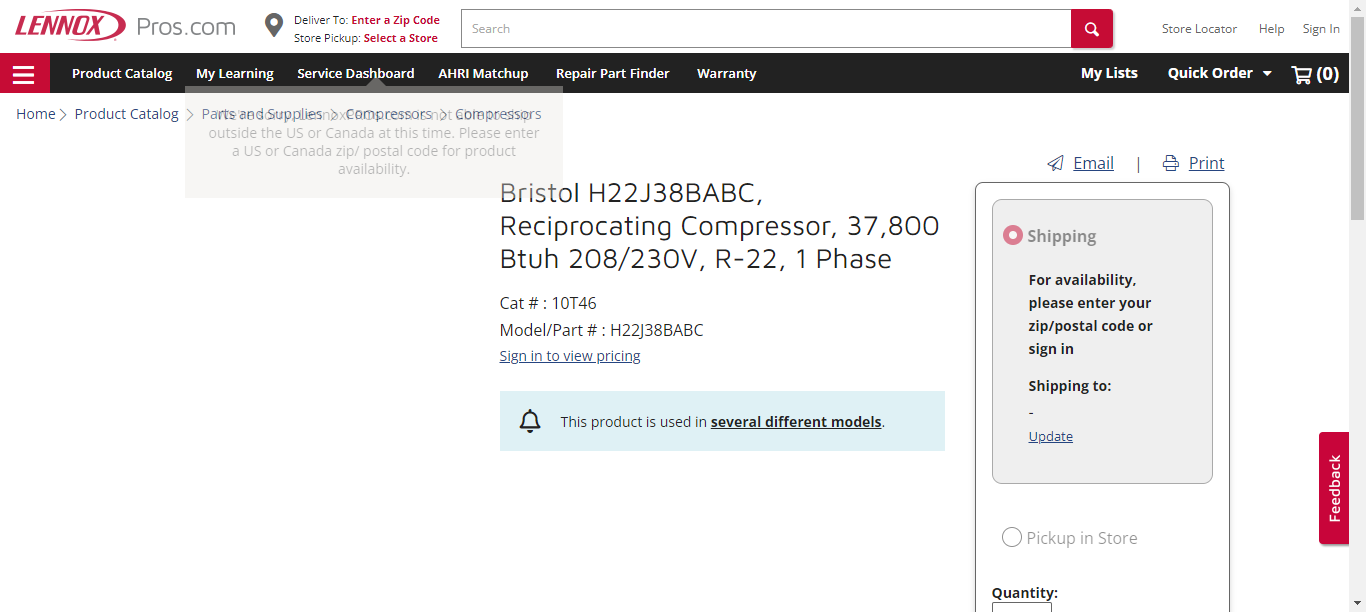
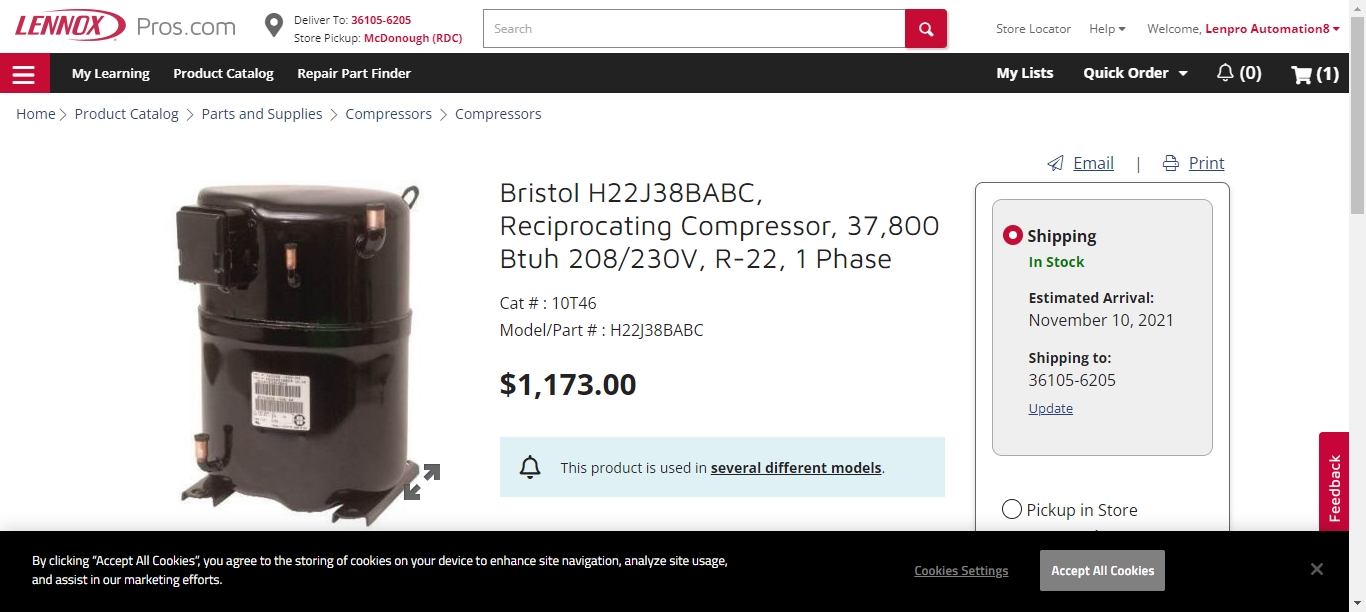
Assessment

diff --git a/test-output/index.html b/test-output/index.html
@@ -51,7 +51,7 @@
               <ul>
                 <li>
                   <a href="#" class="navigator-link " panel-name="test-xml-Default_suite">
-                    <span>C:\Users\ramya\AppData\Local\Temp\testng-eclipse-434856898\testng-customsuite.xml</span>
+                    <span>C:\Users\ramya\AppData\Local\Temp\testng-eclipse--2074361957\testng-customsuite.xml</span>
                   </a> <!-- navigator-link  -->
                 </li>
                 <li>
@@ -137,7 +137,7 @@
         </div> <!-- panel Default_suite -->
         <div panel-name="test-xml-Default_suite" class="panel">
           <div class="main-panel-header rounded-window-top">
-            <span class="header-content">C:\Users\ramya\AppData\Local\Temp\testng-eclipse-434856898\testng-customsuite.xml</span>
+            <span class="header-content">C:\Users\ramya\AppData\Local\Temp\testng-eclipse--2074361957\testng-customsuite.xml</span>
           </div> <!-- main-panel-header rounded-window-top -->
           <div class="main-panel-content rounded-window-bottom">
             <pre>
@@ -190,12 +190,12 @@ data.addRows(1);
 data.setCell(0, 0, 0)
 data.setCell(0, 1, 'tc1')
 data.setCell(0, 2, 'lennoxProject.lennox')
-data.setCell(0, 3, 18343);
+data.setCell(0, 3, 72235);
 window.suiteTableData['Default_suite']= { tableData: data, tableDiv: 'times-div-Default_suite'}
 return data;
 }
               </script>
-              <span class="suite-total-time">Total running time: 18 seconds</span>
+              <span class="suite-total-time">Total running time: 1 minutes</span>
               <div id="times-div-Default_suite">
               </div> <!-- times-div-Default_suite -->
             </div> <!-- times-div -->
@@ -228,11 +228,11 @@ return data;
               </div> <!-- configuration-class before -->
               <div class="test-method">
                 <span class="method-name">tc1</span>
-                <span class="method-start">14206 ms</span>
+                <span class="method-start">24466 ms</span>
               </div> <!-- test-method -->
               <div class="configuration-class after">
                 <span class="method-name">closeBrowser</span>
-                <span class="method-start">32556 ms</span>
+                <span class="method-start">96731 ms</span>
               </div> <!-- configuration-class after -->
           </div> <!-- main-panel-content rounded-window-bottom -->
         </div> <!-- panel -->

diff --git a/test-output/old/Default suite/methods.html b/test-output/old/Default suite/methods.html
@@ -1,10 +1,10 @@
 <h2>Methods run, sorted chronologically</h2><h3>&gt;&gt; means before, &lt;&lt; means after</h3><p/><br/><em>Default suite</em><p/><small><i>(Hover the method name to see the test class name)</i></small><p/>
 <table border="1">
 <tr><th>Time</th><th>Delta (ms)</th><th>Suite<br>configuration</th><th>Test<br>configuration</th><th>Class<br>configuration</th><th>Groups<br>configuration</th><th>Method<br>configuration</th><th>Test<br>method</th><th>Thread</th><th>Instances</th></tr>
-<tr bgcolor="ba7b69">  <td>21/11/09 10:02:27</td>   <td>0</td> <td>&nbsp;</td><td>&nbsp;</td><td title="&lt;&lt;lennox.closeBrowser()[pri:0, instance:lennoxProject.lennox@7e0e6aa2]">&lt;&lt;closeBrowser</td> 
+<tr bgcolor="ba7b69">  <td>21/11/09 13:22:41</td>   <td>0</td> <td>&nbsp;</td><td>&nbsp;</td><td title="&lt;&lt;lennox.closeBrowser()[pri:0, instance:lennoxProject.lennox@7e0e6aa2]">&lt;&lt;closeBrowser</td> 
 <td>&nbsp;</td><td>&nbsp;</td><td>&nbsp;</td>  <td>main@1313532469</td>   <td></td> </tr>
-<tr bgcolor="ba7b69">  <td>21/11/09 10:01:55</td>   <td>-32553</td> <td>&nbsp;</td><td>&nbsp;</td><td title="&gt;&gt;lennox.browserLaunch()[pri:0, instance:lennoxProject.lennox@7e0e6aa2]">&gt;&gt;browserLaunch</td> 
+<tr bgcolor="ba7b69">  <td>21/11/09 13:21:04</td>   <td>-96722</td> <td>&nbsp;</td><td>&nbsp;</td><td title="&gt;&gt;lennox.browserLaunch()[pri:0, instance:lennoxProject.lennox@7e0e6aa2]">&gt;&gt;browserLaunch</td> 
 <td>&nbsp;</td><td>&nbsp;</td><td>&nbsp;</td>  <td>main@1313532469</td>   <td></td> </tr>
-<tr bgcolor="ba7b69">  <td>21/11/09 10:02:09</td>   <td>-18351</td> <td>&nbsp;</td><td>&nbsp;</td><td>&nbsp;</td><td>&nbsp;</td><td>&nbsp;</td><td title="lennox.tc1()[pri:0, instance:lennoxProject.lennox@7e0e6aa2]">tc1</td> 
+<tr bgcolor="ba7b69">  <td>21/11/09 13:21:28</td>   <td>-72267</td> <td>&nbsp;</td><td>&nbsp;</td><td>&nbsp;</td><td>&nbsp;</td><td>&nbsp;</td><td title="lennox.tc1()[pri:0, instance:lennoxProject.lennox@7e0e6aa2]">tc1</td> 
   <td>main@1313532469</td>   <td></td> </tr>
 </table>

diff --git a/test-output/old/Default suite/methods-alphabetical.html b/test-output/old/Default suite/methods-alphabetical.html
@@ -1,10 +1,10 @@
 <h2>Methods run, sorted chronologically</h2><h3>&gt;&gt; means before, &lt;&lt; means after</h3><p/><br/><em>Default suite</em><p/><small><i>(Hover the method name to see the test class name)</i></small><p/>
 <table border="1">
 <tr><th>Time</th><th>Delta (ms)</th><th>Suite<br>configuration</th><th>Test<br>configuration</th><th>Class<br>configuration</th><th>Groups<br>configuration</th><th>Method<br>configuration</th><th>Test<br>method</th><th>Thread</th><th>Instances</th></tr>
-<tr bgcolor="ba7b69">  <td>21/11/09 10:01:55</td>   <td>0</td> <td>&nbsp;</td><td>&nbsp;</td><td title="&gt;&gt;lennox.browserLaunch()[pri:0, instance:lennoxProject.lennox@7e0e6aa2]">&gt;&gt;browserLaunch</td> 
+<tr bgcolor="ba7b69">  <td>21/11/09 13:21:04</td>   <td>0</td> <td>&nbsp;</td><td>&nbsp;</td><td title="&gt;&gt;lennox.browserLaunch()[pri:0, instance:lennoxProject.lennox@7e0e6aa2]">&gt;&gt;browserLaunch</td> 
 <td>&nbsp;</td><td>&nbsp;</td><td>&nbsp;</td>  <td>main@1313532469</td>   <td></td> </tr>
-<tr bgcolor="ba7b69">  <td>21/11/09 10:02:27</td>   <td>32553</td> <td>&nbsp;</td><td>&nbsp;</td><td title="&lt;&lt;lennox.closeBrowser()[pri:0, instance:lennoxProject.lennox@7e0e6aa2]">&lt;&lt;closeBrowser</td> 
+<tr bgcolor="ba7b69">  <td>21/11/09 13:22:41</td>   <td>96722</td> <td>&nbsp;</td><td>&nbsp;</td><td title="&lt;&lt;lennox.closeBrowser()[pri:0, instance:lennoxProject.lennox@7e0e6aa2]">&lt;&lt;closeBrowser</td> 
 <td>&nbsp;</td><td>&nbsp;</td><td>&nbsp;</td>  <td>main@1313532469</td>   <td></td> </tr>
-<tr bgcolor="ba7b69">  <td>21/11/09 10:02:09</td>   <td>14202</td> <td>&nbsp;</td><td>&nbsp;</td><td>&nbsp;</td><td>&nbsp;</td><td>&nbsp;</td><td title="lennox.tc1()[pri:0, instance:lennoxProject.lennox@7e0e6aa2]">tc1</td> 
+<tr bgcolor="ba7b69">  <td>21/11/09 13:21:28</td>   <td>24455</td> <td>&nbsp;</td><td>&nbsp;</td><td>&nbsp;</td><td>&nbsp;</td><td>&nbsp;</td><td title="lennox.tc1()[pri:0, instance:lennoxProject.lennox@7e0e6aa2]">tc1</td> 
   <td>main@1313532469</td>   <td></td> </tr>
 </table>

diff --git a/report.html b/report.html
@@ -35,7 +35,7 @@
 <a href="#"><span class="badge badge-primary"></span></a>
 </li>
 <li class="m-r-10">
-<a href="#"><span class="badge badge-primary">Nov 9, 2021 10:02:09 AM</span></a>
+<a href="#"><span class="badge badge-primary">Nov 9, 2021 01:21:28 PM</span></a>
 </li>
 </ul>
 </div>
@@ -81,7 +81,7 @@
           <div class="test-detail">
             <p class="name">Verify Head</p>
             <p class="text-sm">
-              <span>10:02:09 AM</span> / <span>00:00:17:921</span>
+              <span>1:21:28 PM</span> / <span>00:01:07:864</span>
               <span class="badge pass-bg log float-right">Pass</span>
             </p>
           </div>
@@ -90,9 +90,9 @@
 <div class="p-v-10">
 <div class="info">
 <h5 class="test-status text-pass">Verify Head</h5>
-<span class='badge badge-success'>11.09.2021 10:02:09 AM</span>
-<span class='badge badge-danger'>11.09.2021 10:02:27 AM</span>
-<span class='badge badge-default'>00:00:17:921</span>
+<span class='badge badge-success'>11.09.2021 1:21:28 PM</span>
+<span class='badge badge-danger'>11.09.2021 1:22:36 PM</span>
+<span class='badge badge-default'>00:01:07:864</span>
 &middot; <span class='uri-anchor badge badge-default'>#test-id=1</span>
 <span class='badge badge-default pointer float-right ml-1 et'><i class="fa fa-chevron-down"></i></span>
 <span class='badge badge-default pointer float-right ct'><i class="fa fa-chevron-up"></i></span>
@@ -118,13 +118,13 @@
 <div class="col-md-3">
 <div class="card"><div class="card-body">
 <p class="m-b-0">Started</p>
-<h3>Nov 9, 2021 10:02:09 AM</h3>
+<h3>Nov 9, 2021 01:21:28 PM</h3>
 </div></div>
 </div>
 <div class="col-md-3">
 <div class="card"><div class="card-body">
 <p class="m-b-0">Ended</p>
-<h3>Nov 9, 2021 10:02:27 AM</h3>
+<h3>Nov 9, 2021 01:22:41 PM</h3>
 </div></div>
 </div>
 <div class="col-md-3">
@@ -174,7 +174,7 @@
 </div></div>
 <script>
 var timeline = {
-"Verify Head":17.921
+"Verify Head":67.864
 };
 </script>
 <div class="row">

diff --git a/test-output/emailable-report.html b/test-output/emailable-report.html
@@ -9,9 +9,9 @@
 <table>
 <tr><th>Test</th><th># Passed</th><th># Skipped</th><th># Retried</th><th># Failed</th><th>Time (ms)</th><th>Included Groups</th><th>Excluded Groups</th></tr>
 <tr><th colspan="8">Default suite</th></tr>
-<tr><td><a href="#t0">Default test</a></td><td class="num">1</td><td class="num">0</td><td class="num">0</td><td class="num">0</td><td class="num">33,390</td><td></td><td></td></tr>
+<tr><td><a href="#t0">Default test</a></td><td class="num">1</td><td class="num">0</td><td class="num">0</td><td class="num">0</td><td class="num">102,828</td><td></td><td></td></tr>
 </table>
-<table id='summary'><thead><tr><th>Class</th><th>Method</th><th>Start</th><th>Time (ms)</th></tr></thead><tbody><tr><th colspan="4">Default suite</th></tr></tbody><tbody id="t0"><tr><th colspan="4">Default test &#8212; passed</th></tr><tr class="passedeven"><td rowspan="1">lennoxProject.lennox</td><td><a href="#m0">tc1</a></td><td rowspan="1">1636432329353</td><td rowspan="1">18343</td></tr></tbody>
+<table id='summary'><thead><tr><th>Class</th><th>Method</th><th>Start</th><th>Time (ms)</th></tr></thead><tbody><tr><th colspan="4">Default suite</th></tr></tbody><tbody id="t0"><tr><th colspan="4">Default test &#8212; passed</th></tr><tr class="passedeven"><td rowspan="1">lennoxProject.lennox</td><td><a href="#m0">tc1</a></td><td rowspan="1">1636444288844</td><td rowspan="1">72235</td></tr></tbody>
 </table>
 <h2>Default test</h2><h3 id="m0">lennoxProject.lennox#tc1</h3><table class="result"><tr><th class="invisible"/></tr></table><p class="totop"><a href="#summary">back to summary</a></p>
 </body>

diff --git a/test-output/Default suite/Default test.html b/test-output/Default suite/Default test.html
@@ -57,9 +57,9 @@ function toggleAllBoxes() {
 <tr>
 <td>Tests passed/Failed/Skipped:</td><td>1/0/0</td>
 </tr><tr>
-<td>Started on:</td><td>Tue Nov 09 10:01:55 IST 2021</td>
+<td>Started on:</td><td>Tue Nov 09 13:21:04 IST 2021</td>
 </tr>
-<tr><td>Total time:</td><td>33 seconds (33390 ms)</td>
+<tr><td>Total time:</td><td>102 seconds (102828 ms)</td>
 </tr><tr>
 <td>Included groups:</td><td></td>
 </tr><tr>
@@ -77,7 +77,7 @@ function toggleAllBoxes() {
 <tr>
 <td title='lennoxProject.lennox.tc1()'><b>tc1</b><br>Test class: lennoxProject.lennox</td>
 <td></td>
-<td>18</td>
+<td>72</td>
 <td>lennoxProject.lennox@7e0e6aa2</td></tr>
 </table><p>
 </body>

diff --git a/src/test/java/lennoxProject/lennox.java b/src/test/java/lennoxProject/lennox.java
@@ -43,22 +43,27 @@ public class lennox extends baseClass {
 	@Test
 	private void tc1() throws IOException, InterruptedException {
 		lennoxPojo l = new lennoxPojo();
+		clickbtn(l.getSign());
+		Thread.sleep(8000);
+		passtext(l.getUserName(), excelRead("Details", 1, 4));
+		passtext(l.getPass(), excelRead("Details", 1, 5));
+		clickbtn(l.getSignin());
+		Thread.sleep(8000);
 		clickbtn(l.getMenu());
 		String text = l.getProduct().getText();
 		System.out.println(text);
 		String data = excelRead("Details", 1, 6);
 		Assert.assertEquals(text, data);
 		clickbtn(l.getProduct());
-		Wait<WebDriver> wait = new FluentWait<WebDriver>(driver).withTimeout(Duration.ofSeconds(30))
-				.pollingEvery(Duration.ofSeconds(5)).ignoring(NoSuchElementException.class);
-		wait.until(ExpectedConditions.elementToBeClickable(l.getScroll()));
+		Thread.sleep(8000);
 		scrolldown(l.getScroll());
+		Wait<WebDriver> wait = new FluentWait<WebDriver>(driver).withTimeout(Duration.ofSeconds(30)).pollingEvery(Duration.ofSeconds(10)).ignoring(NoSuchElementException.class);
+		wait.until(ExpectedConditions.elementToBeClickable(l.getParts()));
 		clickbtn(l.getParts());
-		Wait<WebDriver> wait1 = new FluentWait<WebDriver>(driver).withTimeout(Duration.ofSeconds(30))
-				.pollingEvery(Duration.ofSeconds(5)).ignoring(NoSuchElementException.class);
-		wait1.until(ExpectedConditions.elementToBeClickable(l.getScrollcom()));
+		Thread.sleep(8000);
 		scrolldown(l.getScrollcom());
-
+		Wait<WebDriver> wait1 = new FluentWait<WebDriver>(driver).withTimeout(Duration.ofSeconds(30)).pollingEvery(Duration.ofSeconds(10)).ignoring(NoSuchElementException.class);
+		wait1.until(ExpectedConditions.elementToBeClickable(l.getCompressor()));
 		clickbtn(l.getCompressor());
 
 		String data1 = l.getComhead().getText();
@@ -69,16 +74,16 @@ public class lennox extends baseClass {
 		Assert.assertEquals(data2, "Shop for HVAC compressors on LennoxPros.com.");
 		passtext(l.getSearchbox(), excelRead("Details", 1, 10));
 		clickbtn(l.getSearch());
-		String head1 = l.getHead().getText();
-		System.out.println(head1);
-
+		Thread.sleep(8000);
 		String head2 = l.getHead1().getText();
 		System.out.println(head2);
 		String substring = head2.substring(15, 25);
 		System.out.println(substring);
 		String data3 = excelRead("Details", 1, 11);
 		Assert.assertEquals(data3, substring);
-
+		String price = l.getPrice().getText();
+		System.out.println(price);
+		
 		if (head2.equals("Bristol")) {
 			System.out.println("Passed");
 		} else {
@@ -89,6 +94,8 @@ public class lennox extends baseClass {
 			FileUtils.copyFile(source, destination);
 			testCase.addScreenCaptureFromPath("F:\\Java_Programs\\BikeInformation\\lennoxProject\\images\\pass.png");
 		}
+		Thread.sleep(3000);
+		scrolldown(l.getCart());
 		clickbtn(l.getCart());
 	}
 

diff --git a/src/test/java/lennoxProject/lennoxPojo.java b/src/test/java/lennoxProject/lennoxPojo.java
@@ -13,6 +13,18 @@ public class lennoxPojo extends baseClass {
 	@CacheLookup
 	@FindBy(id = "samlSignInLink")
 	private WebElement sign;
+	
+	@CacheLookup
+	@FindBy(xpath = "//input[@id='signInName']")
+	private WebElement userName;
+	
+	@CacheLookup
+	@FindBy(xpath = "//input[@id='password']")
+	private WebElement pass;
+	
+	@CacheLookup
+	@FindBy(xpath = "//button[@id='continue']")
+	private WebElement signin;
 
 	@CacheLookup
 	@FindBy(xpath = "//i[@class='far fa-bars v2-hamburger-menu']")
@@ -27,7 +39,7 @@ public class lennoxPojo extends baseClass {
 	private WebElement parts;
 
 	@CacheLookup
-	@FindBy(xpath = "//div[@class='col-md-12 col-lg-3 col-sm-12 shop-by-category']//descendant::a[14]")
+	@FindBy(xpath = "//a[text()='Parts and Supplies']")
 	private WebElement scroll;
 
 	@CacheLookup
@@ -47,7 +59,7 @@ public class lennoxPojo extends baseClass {
 	private WebElement scrollcom;
 
 	@CacheLookup
-	@FindBy(xpath = "//div[@class='product-content mt-0 mb-0']/h1")
+	@FindBy(xpath = "//h1[@class='mb-0 pb-3']")
 	private WebElement head;
 
 	@CacheLookup
@@ -55,7 +67,7 @@ public class lennoxPojo extends baseClass {
 	private WebElement head1;
 
 	@CacheLookup
-	@FindBy(xpath = "(//button[@type='submit'])[4]")
+	@FindBy(xpath = "//span[text()='Add to Cart']")
 	private WebElement cart;
 
 	@CacheLookup
@@ -65,7 +77,27 @@ public class lennoxPojo extends baseClass {
 	@CacheLookup
 	@FindBy(xpath = "//div[@class='description']/p")
 	private WebElement comText;
+	
+	@CacheLookup
+	@FindBy(xpath = "//div[@class='price-box clearfix']/child::p")
+	private WebElement price;
 
+	public WebElement getPrice() {
+		return price;
+	}
+
+	public WebElement getUserName() {
+		return userName;
+	}
+
+	public WebElement getPass() {
+		return pass;
+	}
+
+	public WebElement getSignin() {
+		return signin;
+	}
+	
 	public WebElement getComText() {
 		return comText;
 	}

diff --git a/src/test/java/lennoxProject/baseClass.java b/src/test/java/lennoxProject/baseClass.java
@@ -77,5 +77,10 @@ public class baseClass {
 		JavascriptExecutor js = (JavascriptExecutor) driver;
 		js.executeScript("arguments[0].scrollIntoView(true)", element);
 	}
+	public static String getAttributereturn(WebElement element) {
+		String enteredTxt = element.getAttribute("value");
+		System.out.println(enteredTxt);
+		return enteredTxt;
 
+}
 }
